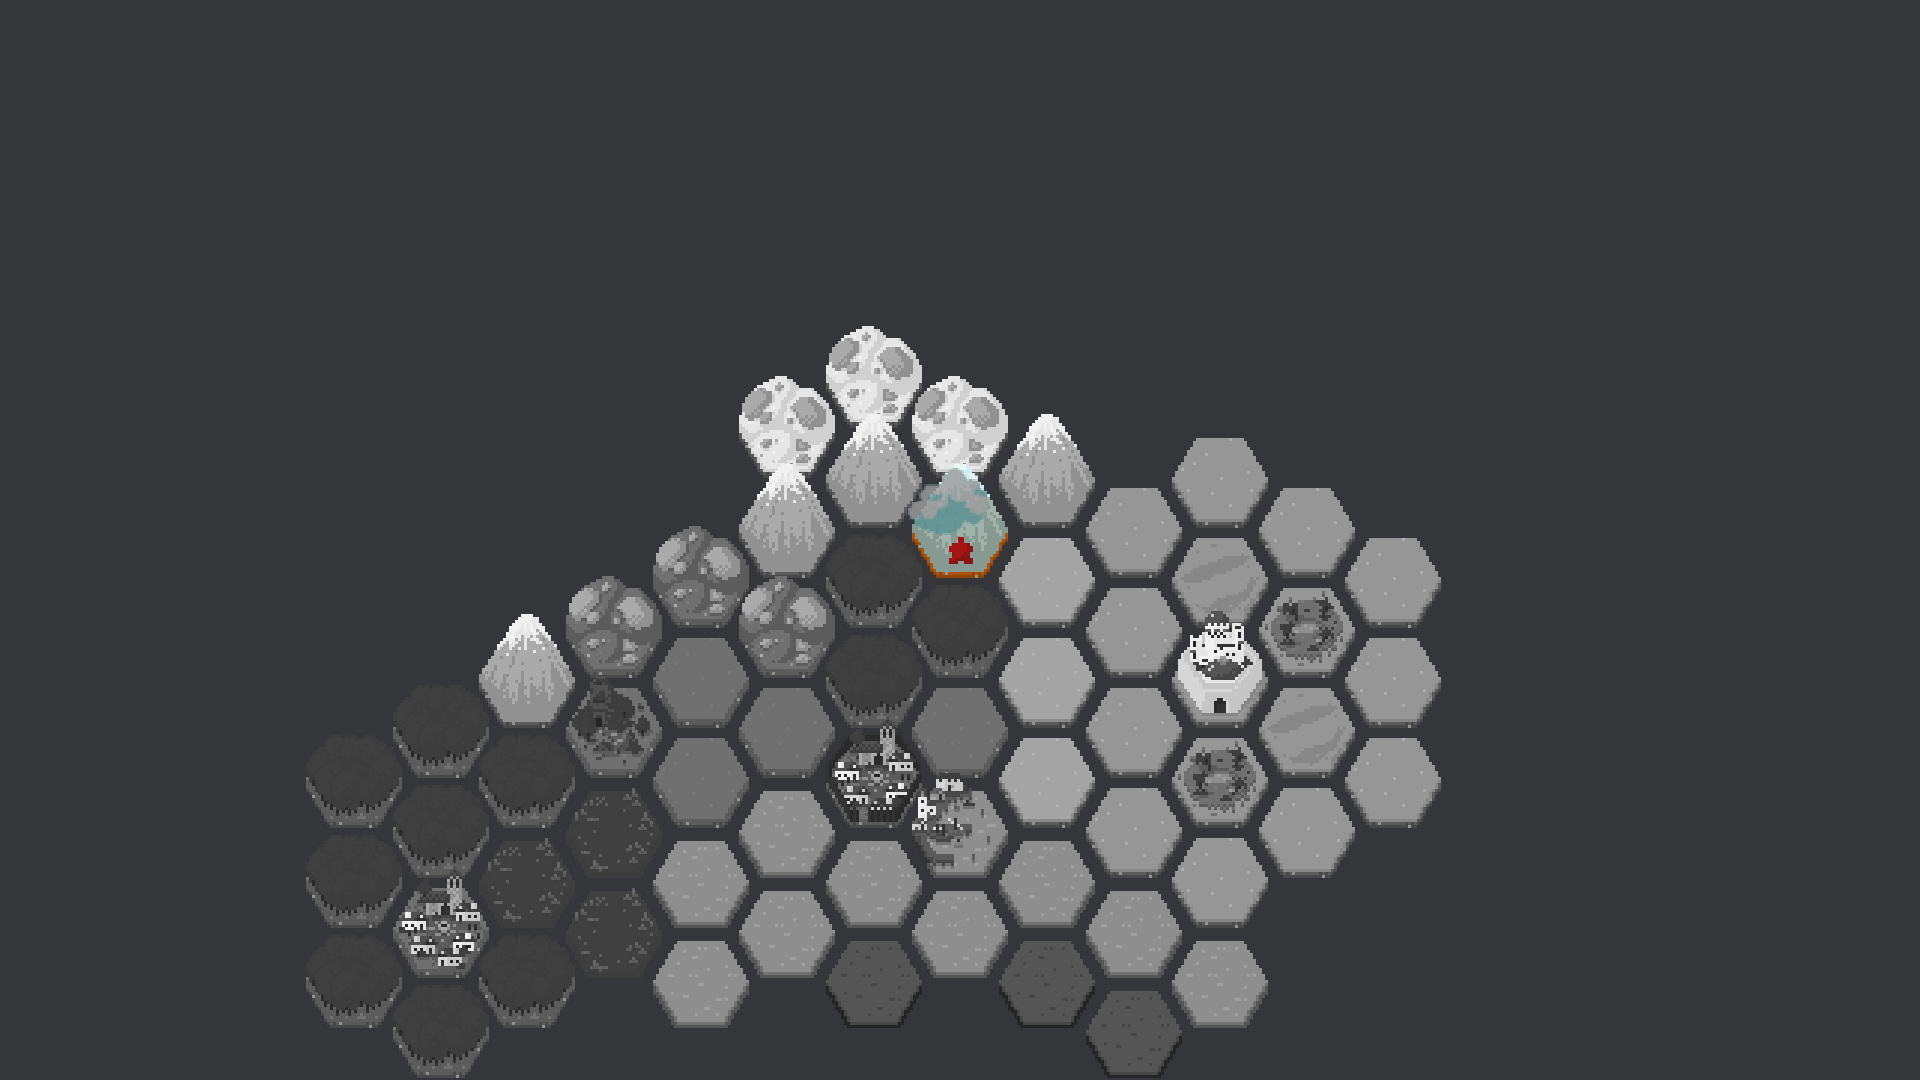
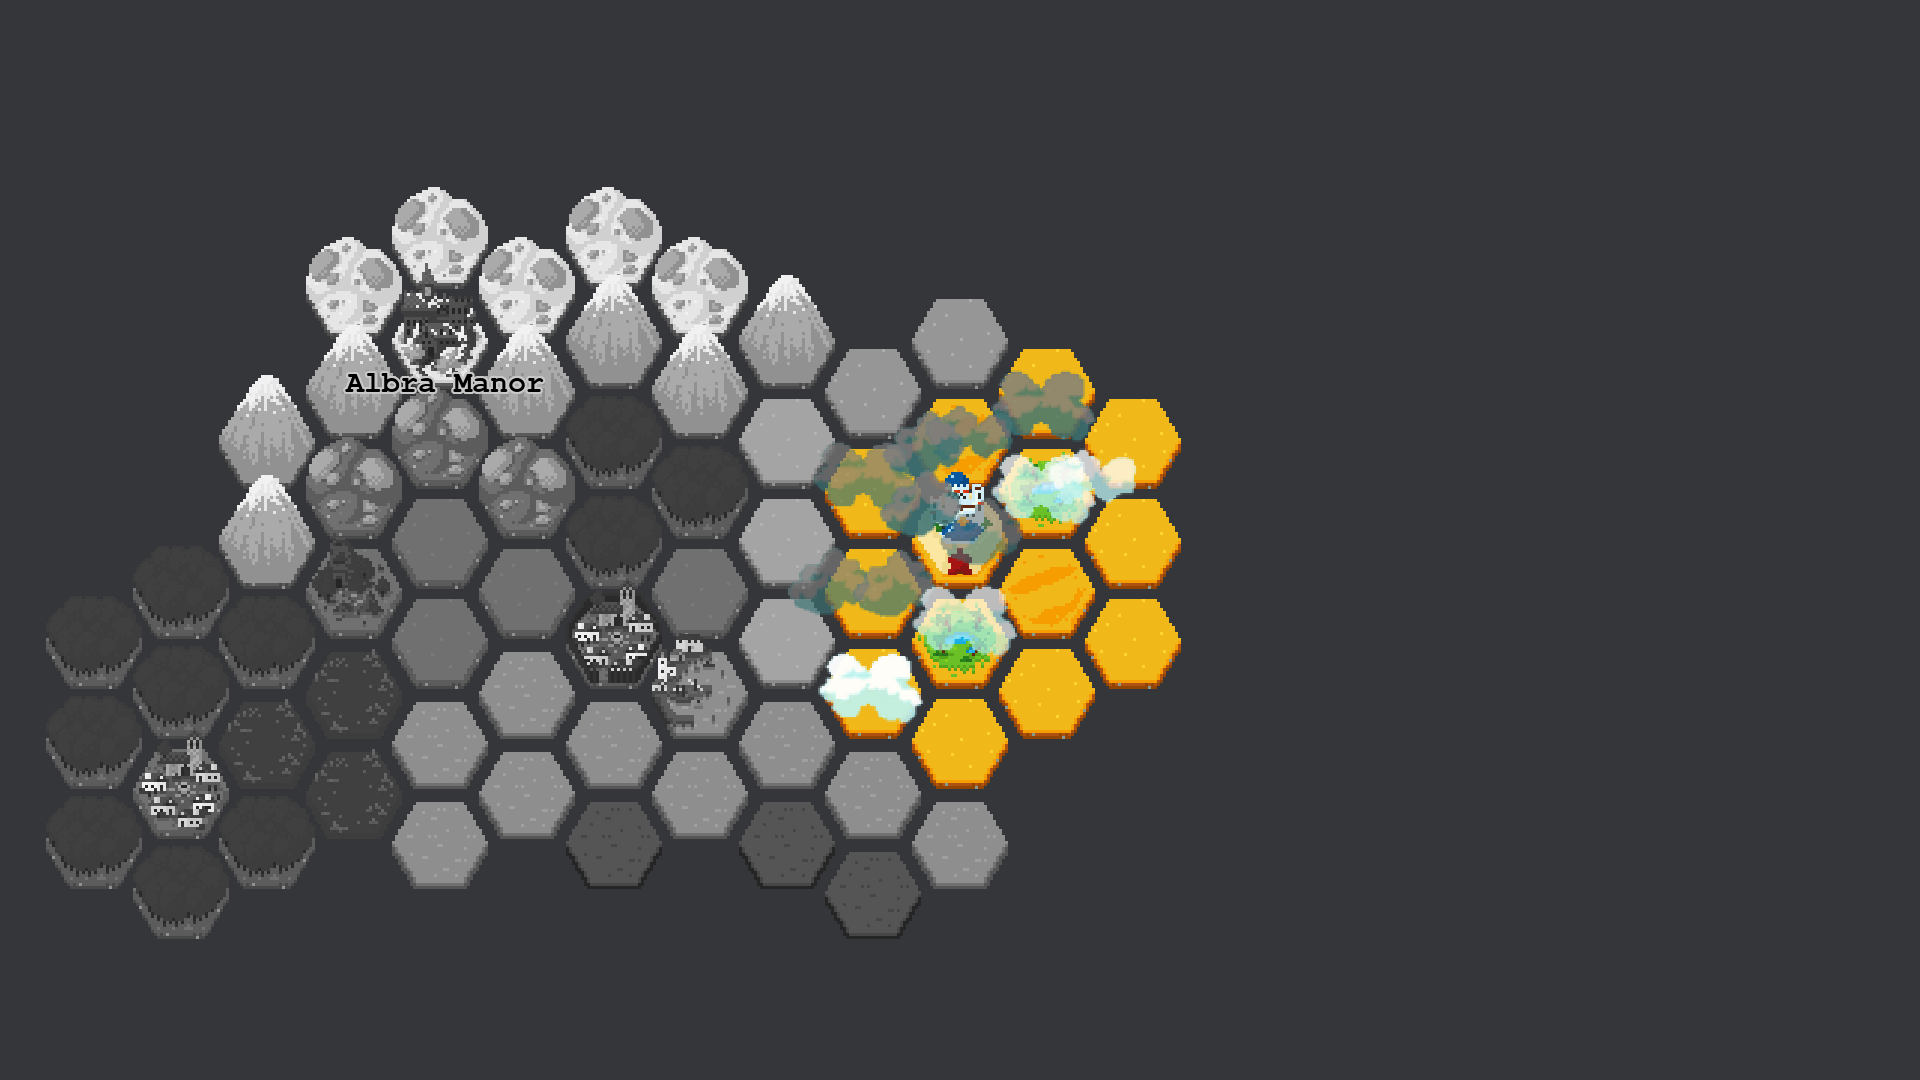
Fixed all the stuff with weather

diff --git a/MapUIProject/main.py b/MapUIProject/main.py
@@ -108,7 +108,7 @@ currentFocusTile = None
 
 mapData = ast.literal_eval(requests.get("http://" + utils.ipAddress + "/map/" + sys.argv[1]).text)
 
-currentMapHash, Ms, Ps = utils.updateData(mapData)
+currentMapHash, Ms, Ps = utils.updateData(mapData, camera)
 
 center(Ms, camera)
 
@@ -179,7 +179,7 @@ while True:
         elif event.type == CHECKHASHEVENT:
             mapData = ast.literal_eval(requests.get("http://" + utils.ipAddress + "/map/" + sys.argv[1]).text)
             if currentMapHash != mapData["hash"]:
-                currentMapHash, Ms, Ps = utils.updateData(mapData)
+                currentMapHash, Ms, Ps = utils.updateData(mapData, camera)
 
     DISPLAY_SURF.fill(utils.colors["background"])
     BsBoxes = []
@@ -303,7 +303,7 @@ while True:
                 else:
                     if "message" in mapData:
                         mapData = ast.literal_eval(requests.get("http://" + utils.ipAddress + "/map/" + sys.argv[1]).text)
-                        currentMapHash, Ms, Ps = utils.updateData(mapData)
+                        currentMapHash, Ms, Ps = utils.updateData(mapData, camera)
                         mapData = ast.literal_eval(requests.post("http://" + utils.ipAddress +
                                                                  "/map/" + sys.argv[1] +
                                                                  "/tile/" + str(toAppend.loc[0]) +
@@ -338,13 +338,13 @@ while True:
                         if "message" in mapData:
                             mapData = ast.literal_eval(requests.get("http://" + utils.ipAddress + "/map/" + sys.argv[1]).text)
 
-                            currentMapHash, Ms, Ps = utils.updateData(mapData)
+                            currentMapHash, Ms, Ps = utils.updateData(mapData, camera)
                             mapData = ast.literal_eval(requests.delete("http://" + utils.ipAddress +
                                                              "/map/" + sys.argv[1] +
                                                              "/tile/" + str(hoverPoint.id) +
                                                              "/" + currentMapHash).text)
                         if "message" not in mapData:
-                            currentMapHash, Ms, Ps = utils.updateData(mapData)
+                            currentMapHash, Ms, Ps = utils.updateData(mapData, camera)
                 renderer.update_clouds(Ms, camera)
             elif leftClick and not edge:
                 newType = utils.tiles[currentSelectionIndex]
@@ -359,7 +359,7 @@ while True:
                     if "message" in mapData:
                         mapData = ast.literal_eval(requests.get("http://" + utils.ipAddress + "/map/" + sys.argv[1]).text)
 
-                        currentMapHash, Ms, Ps = utils.updateData(mapData)
+                        currentMapHash, Ms, Ps = utils.updateData(mapData, camera)
                         mapData = ast.literal_eval(requests.put("http://" + utils.ipAddress +
                                                                 "/map/" + sys.argv[1] +
                                                                 "/tile/" + newType +
@@ -367,7 +367,7 @@ while True:
                                                                 "/" + currentMapHash).text)
 
                     if "message" not in mapData:
-                        currentMapHash, Ms, Ps = utils.updateData(mapData)
+                        currentMapHash, Ms, Ps = utils.updateData(mapData, camera)
     else:
 
         if leftClick:
@@ -412,6 +412,7 @@ while True:
                 "X: " + str(x) + ", Y:" + str(y),
                 "Type: " + str(currentFocusTile.type),
                 "Label: " + currentFocusTile.label,
+                "Weather: " + currentFocusTile.weather,
                 "",
                 "Players:"
             ]

diff --git a/MapUIProject/utils.py b/MapUIProject/utils.py
@@ -2,6 +2,7 @@ import pygame
 import glob
 import csv
 
+import renderer
 from tile import Tile
 from player import Player
 
@@ -29,15 +30,7 @@ colors = {
     "ocean": [(41, 108, 217), (78, 131, 217)],
     "snow": [(197, 206, 219), (255, 255, 255)],
     "settlement": [(84, 84, 84), (120, 120, 120)],
-    "background": (53, 54, 58),
-    "red": (255, 0, 0),
-    "orange": (255, 98, 0),
-    "yellow": (255, 255, 0),
-    "green": (0, 255, 0),
-    "lightblue": (0, 255, 255),
-    "blue": (0, 0, 255),
-    "purple": (119, 0, 255),
-    "pink": (255, 0, 255)
+    "background": (53, 54, 58)
 }
 
 tilePaths = glob.glob("..\\MapUIProject\\tiles\\used/*/*.png")
@@ -58,6 +51,15 @@ with open("..\\MapUIProject\\tiles\\used\\tile_metadata.txt", "r", encoding="utf
         covered = covered == "True"
         height = int(height)
         metadata[type] = {"covered": covered, "height": height}
+
+region_metadata = {}
+with open("..\\MapUIProject\\tiles\\used\\region_metadata.txt", "r", encoding="utf8") as metadata_file:
+    tsv_reader = csv.reader(metadata_file, delimiter="\t")
+    for row in tsv_reader:
+        (region, rain_threshold, cloud_threshold) = row
+        rain_threshold = float(rain_threshold)
+        cloud_threshold = float(cloud_threshold)
+        region_metadata[region] = {"rain_threshold": rain_threshold, "cloud_threshold": cloud_threshold}
 
 dryClouds = []
 for i in range(1, 4):
@@ -161,6 +163,10 @@ def circlePoints(r):
 
 
 def drawLabel(surface, camera, x, y, label, color):
+    outlineColor = (200, 200, 200)
+    if color == (255, 255, 255):
+        outlineColor = (0, 0, 0)
+
     if (y % 2) == 0:
         x = x + 0.5
     x = (x * camera["scale"]) + camera["ox"]
@@ -170,8 +176,8 @@ def drawLabel(surface, camera, x, y, label, color):
     width = labelFont.size(label)[0]
 
     opx = 2
-    textsurface = labelFont.render(label, True, color).convert_alpha()
-    w = textsurface.get_width() + 2 * opx
+    textSurface = labelFont.render(label, True, color).convert_alpha()
+    w = textSurface.get_width() + 2 * opx
     h = labelFont.get_height()
 
     osurf = pygame.Surface((w, h + 2 * opx)).convert_alpha()
@@ -179,15 +185,14 @@ def drawLabel(surface, camera, x, y, label, color):
 
     surf = osurf.copy()
 
-    osurf.blit(labelFont.render(label, True, (0, 0, 0)).convert_alpha(), (0, 0))
+    osurf.blit(labelFont.render(label, True, outlineColor).convert_alpha(), (0, 0))
 
     for dx, dy in circlePoints(opx):
         surf.blit(osurf, (dx + opx, dy + opx))
 
-    surf.blit(textsurface, (opx, opx))
+    surf.blit(textSurface, (opx, opx))
 
     surface.blit(surf, (x - (width / 2), y + 20))
-    # addText(surface, label, x - (width / 2), y + 20, labelFont, color)
 
 
 def screenToCameraTransform(p, camera):
@@ -231,7 +236,7 @@ def find_tiles(locs, bs):
     return ret
 
 
-def updateData(mapData):
+def updateData(mapData, camera=None):
     currentMapHash = mapData["hash"]
     Ms = []
     for tile in mapData["tiles"]:
@@ -245,6 +250,8 @@ def updateData(mapData):
     Ps = []
     for player in mapData["players"]:
         Ps.append(Player(player, mapData["players"][player]["tileId"], mapData["players"][player]["color"]))
+    if camera is not None:
+        renderer.update_clouds(Ms, camera)
     return currentMapHash, Ms, Ps
 
 

diff --git a/MapUIProject/renderer.py b/MapUIProject/renderer.py
@@ -44,12 +44,13 @@ def render_screen(surface, tiles, players, camera, placementMode = False, curren
     for i in range(lowestX, highestX + 1):
         for tile in tiles:
             if tile.loc[0] == i:
-                playersInLocation = []
-                for player in players:
-                    if player.loc == tile.id:
-                        playersInLocation.append(player)
-                for j in reversed(range(len(playersInLocation))):
-                    playersInLocation[j].render(surface, camera, tiles, j + 1)
+                if tile.visible:
+                    playersInLocation = []
+                    for player in players:
+                        if player.loc == tile.id:
+                            playersInLocation.append(player)
+                    for j in reversed(range(len(playersInLocation))):
+                        playersInLocation[j].render(surface, camera, tiles, j + 1)
     random.seed(100)
     if utils.weatherOn:
         for i in range(lowestX, highestX + 1):
@@ -163,6 +164,8 @@ def get_map_image_by_tile(mapName, tileId, size, player=False, tiles=[], Ps=[]):
 
     utils.setFonts()
 
+    flags = pygame.HIDDEN
+    pygame.display.set_mode((0, 0), flags, vsync=1)
     surface = pygame.Surface(size)
     surface.fill(utils.colors["background"])
 
@@ -189,7 +192,6 @@ def calculateWeather(tiles, camera, seed, scroll):
 
         noiseForPixel = noise([(x / 1000) + scroll, (y / 1000) + scroll])
         tile.setWeather(noiseForPixel)
-
     return tiles
 
 
@@ -198,7 +200,7 @@ def update_clouds(tiles, camera):
 
     random.seed(1)
     cloudNodePoints = []
-    for r, t in rtpairs(50):
+    for r, t in rtpairs(25):
         cloudNodePoints.append(((r * np.cos(t)) + (offset * (random.random() - 0.5)), (r * np.sin(t)) + (offset * (random.random() - 0.5))))
 
     newCloudPoints = []

diff --git a/MapUIProject/tile.py b/MapUIProject/tile.py
@@ -9,6 +9,7 @@ class Tile:
     loc = (0, 0)
     id = 0
     type = ""
+    biome = ""
     color = None
     neighbours = []
     label = ""
@@ -20,11 +21,14 @@ class Tile:
     rLabel = ""
     weather = 0.0
     cloudPoints = []
+    rain_threshold = 0.0
+    cloud_threshold = 0.0
 
     def __init__(self, location, type, unique_id=0, label="", comments=""):
         self.loc = location
         self.id = unique_id
         self.type = type
+        self.biome = self.type.split("\\")[0]
         self.color = utils.colors[self.type.split("\\")[0]]
         self.label = label
         self.comments = comments
@@ -33,6 +37,14 @@ class Tile:
         self.visible = False
         self.distance = -1
         self.neighbours = []
+        self.rain_threshold = utils.region_metadata[self.biome]["rain_threshold"]
+        self.cloud_threshold = utils.region_metadata[self.biome]["cloud_threshold"]
+        if self.height == 2:
+            self.rain_threshold += 0.02
+            self.cloud_threshold += 0.02
+        elif self.height == 3:
+            self.rain_threshold += 0.06
+            self.cloud_threshold += 0.06
 
     def render(self, surface, camera, focus=False):
         x = self.loc[0]
@@ -59,12 +71,12 @@ class Tile:
         return bounds
 
     def setWeather(self, weatherValue):
-        if weatherValue < -0.2:
+        if weatherValue < self.rain_threshold:
             if self.type.split("\\")[0] == "snow":
                 self.weather = "SNOW"
             else:
                 self.weather = "RAIN"
-        elif weatherValue < -0.05:
+        elif weatherValue < self.cloud_threshold:
             self.weather = "CLOUD"
         else:
             self.weather = "CLEAR"

diff --git a/MapUIProject/player.py b/MapUIProject/player.py
@@ -12,7 +12,7 @@ class Player:
         self.loc = location
         self.color = color
 
-    def render(self, surface, camera, tiles, slot = 1):
+    def render(self, surface, camera, tiles, slot=1):
         tile = ""
         for tile in tiles:
             if tile.id == self.loc:
@@ -35,7 +35,7 @@ class Player:
 
         image = pygame.image.load("..\\MapUIProject\\player_token.png")
         image = pygame.transform.scale(image, (image.get_width() * 0.05, image.get_height() * 0.05))
-        image.fill(utils.colors[self.color], special_flags=pygame.BLEND_RGB_MULT)
+        image.fill(self.color, special_flags=pygame.BLEND_RGB_MULT)
         brighten = 20
         image.fill((brighten, brighten, brighten), special_flags=pygame.BLEND_RGB_ADD)
         image = pygame.transform.scale(image, (image.get_width() * 3.0, image.get_height() * 3.0))
